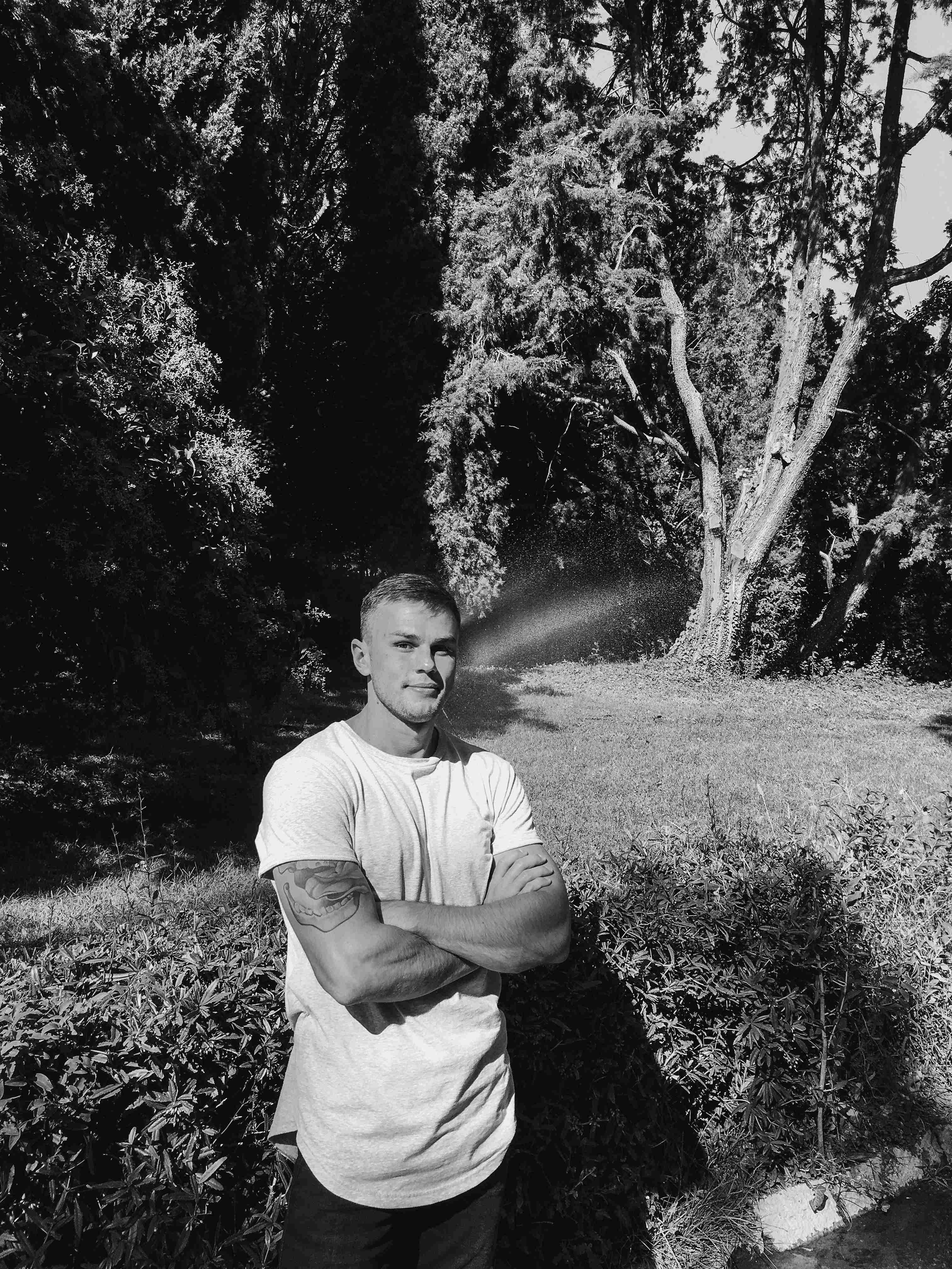
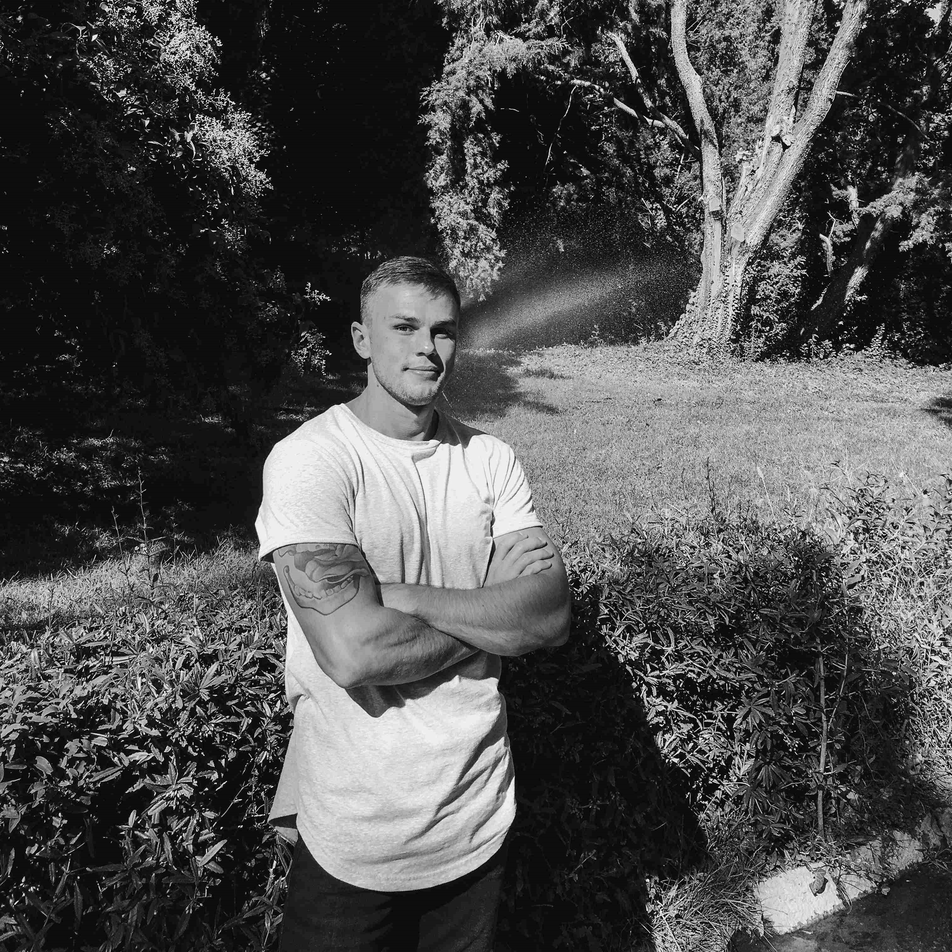
fix photo size

diff --git a/src/Components/Main/Main.module.scss b/src/Components/Main/Main.module.scss
@@ -1,5 +1,6 @@
 .main_container_light {
   margin: 10px auto;
+  min-height: 80vh;
   width: 80%;
   display: flex;
   align-items: center;
@@ -15,6 +16,7 @@
 .main_container_dark {
   filter: brightness(0.8);
   margin: 10px auto;
+  min-height: 80vh;
   width: 80%;
   display: flex;
   align-items: center;

diff --git a/src/Components/Home/Home.module.scss b/src/Components/Home/Home.module.scss
@@ -16,7 +16,7 @@
     height: 250px;
     margin-right: 10px;
     background-repeat: no-repeat;
-    background-position: 35% 70%;
+    background-position: 35% 50%;
     background-size: 200%;
     background-blend-mode: multiply;
     box-shadow: inset 0 0 0 9px rgb(255 255 255 / 30%);

diff --git a/src/Components/About/About.module.scss b/src/Components/About/About.module.scss
@@ -1,7 +1,6 @@
 @import './src/Components/Styles/Variables';
 .about_container {
   width: 100%;
-  min-height: 75vh;
   display: flex;
   justify-content: center;
   align-items: center;

diff --git a/src/Components/Header/Header.module.scss b/src/Components/Header/Header.module.scss
@@ -2,7 +2,7 @@
   display: flex;
   justify-content: space-between;
   width: 80%;
-  height: fit-content;
+  height: 10vh;
   margin: 0 auto;
   transition: 1s;
   position: relative;
